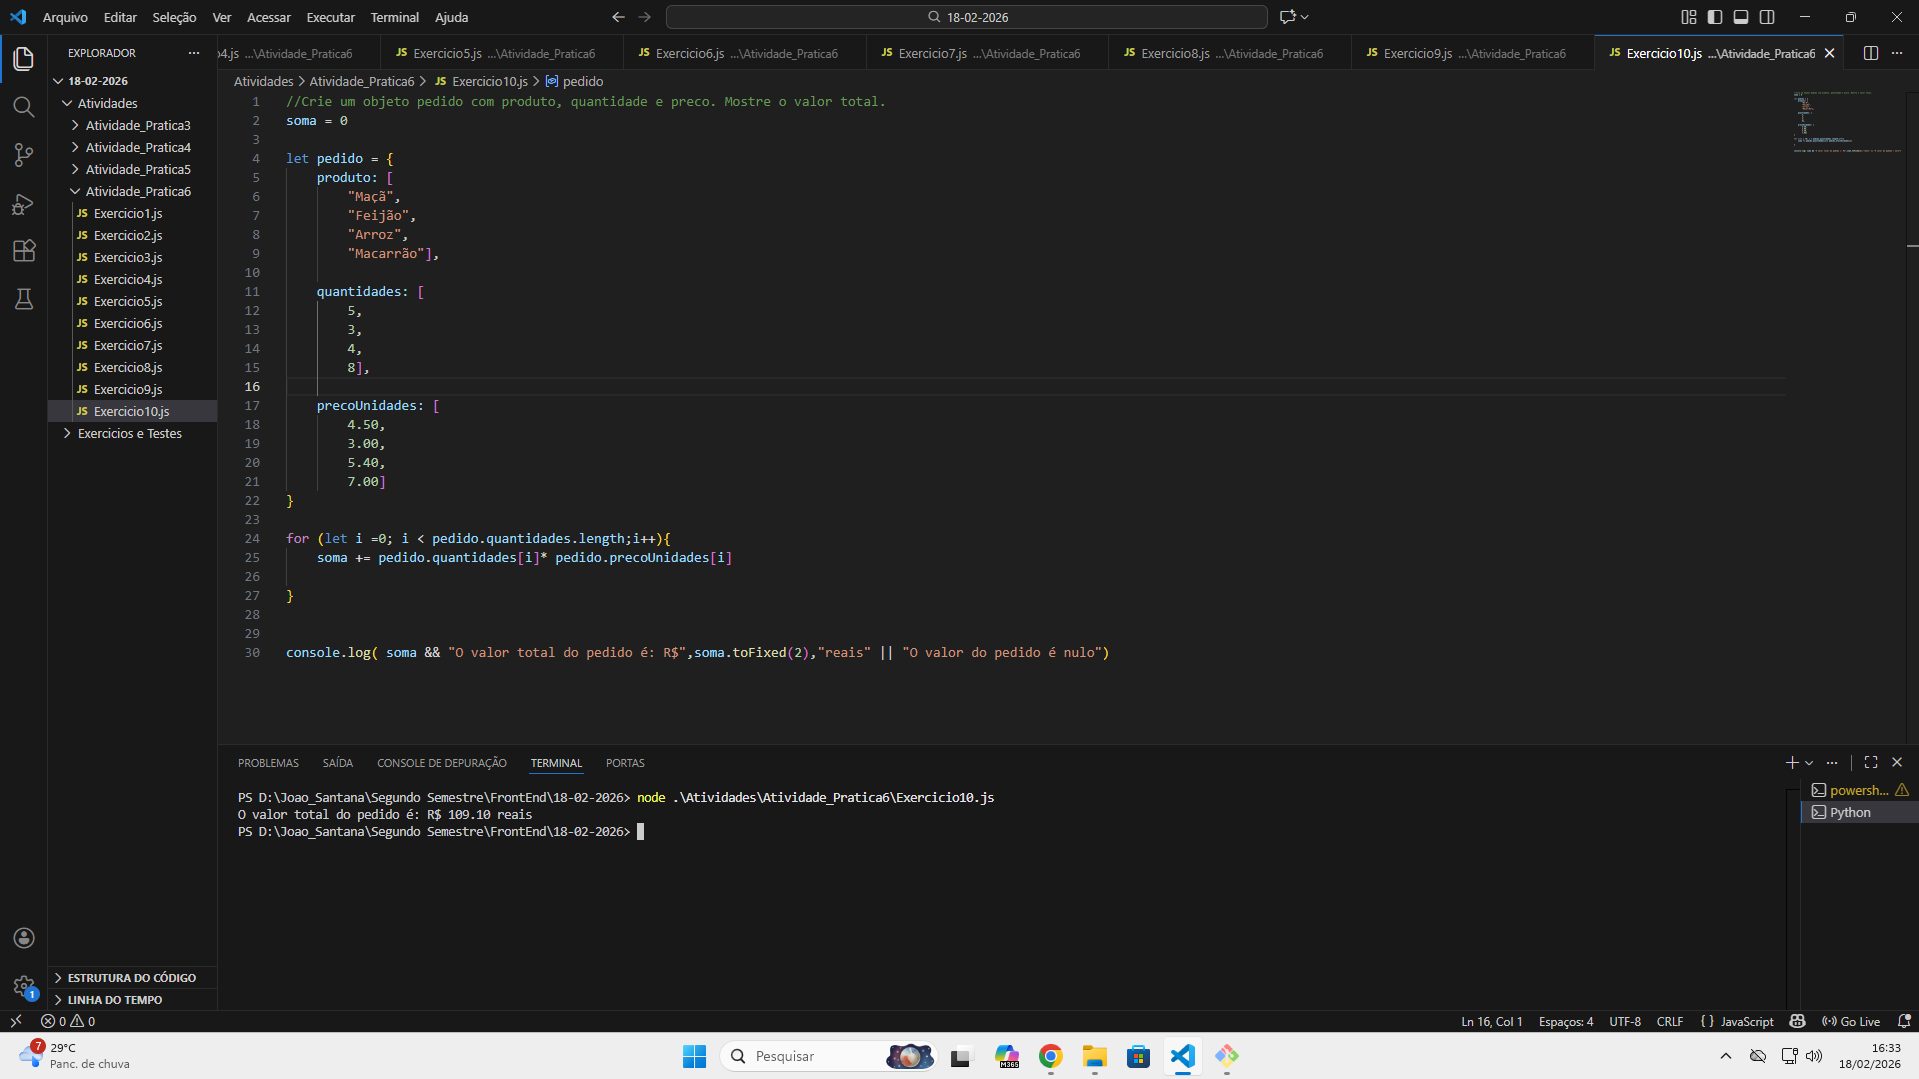
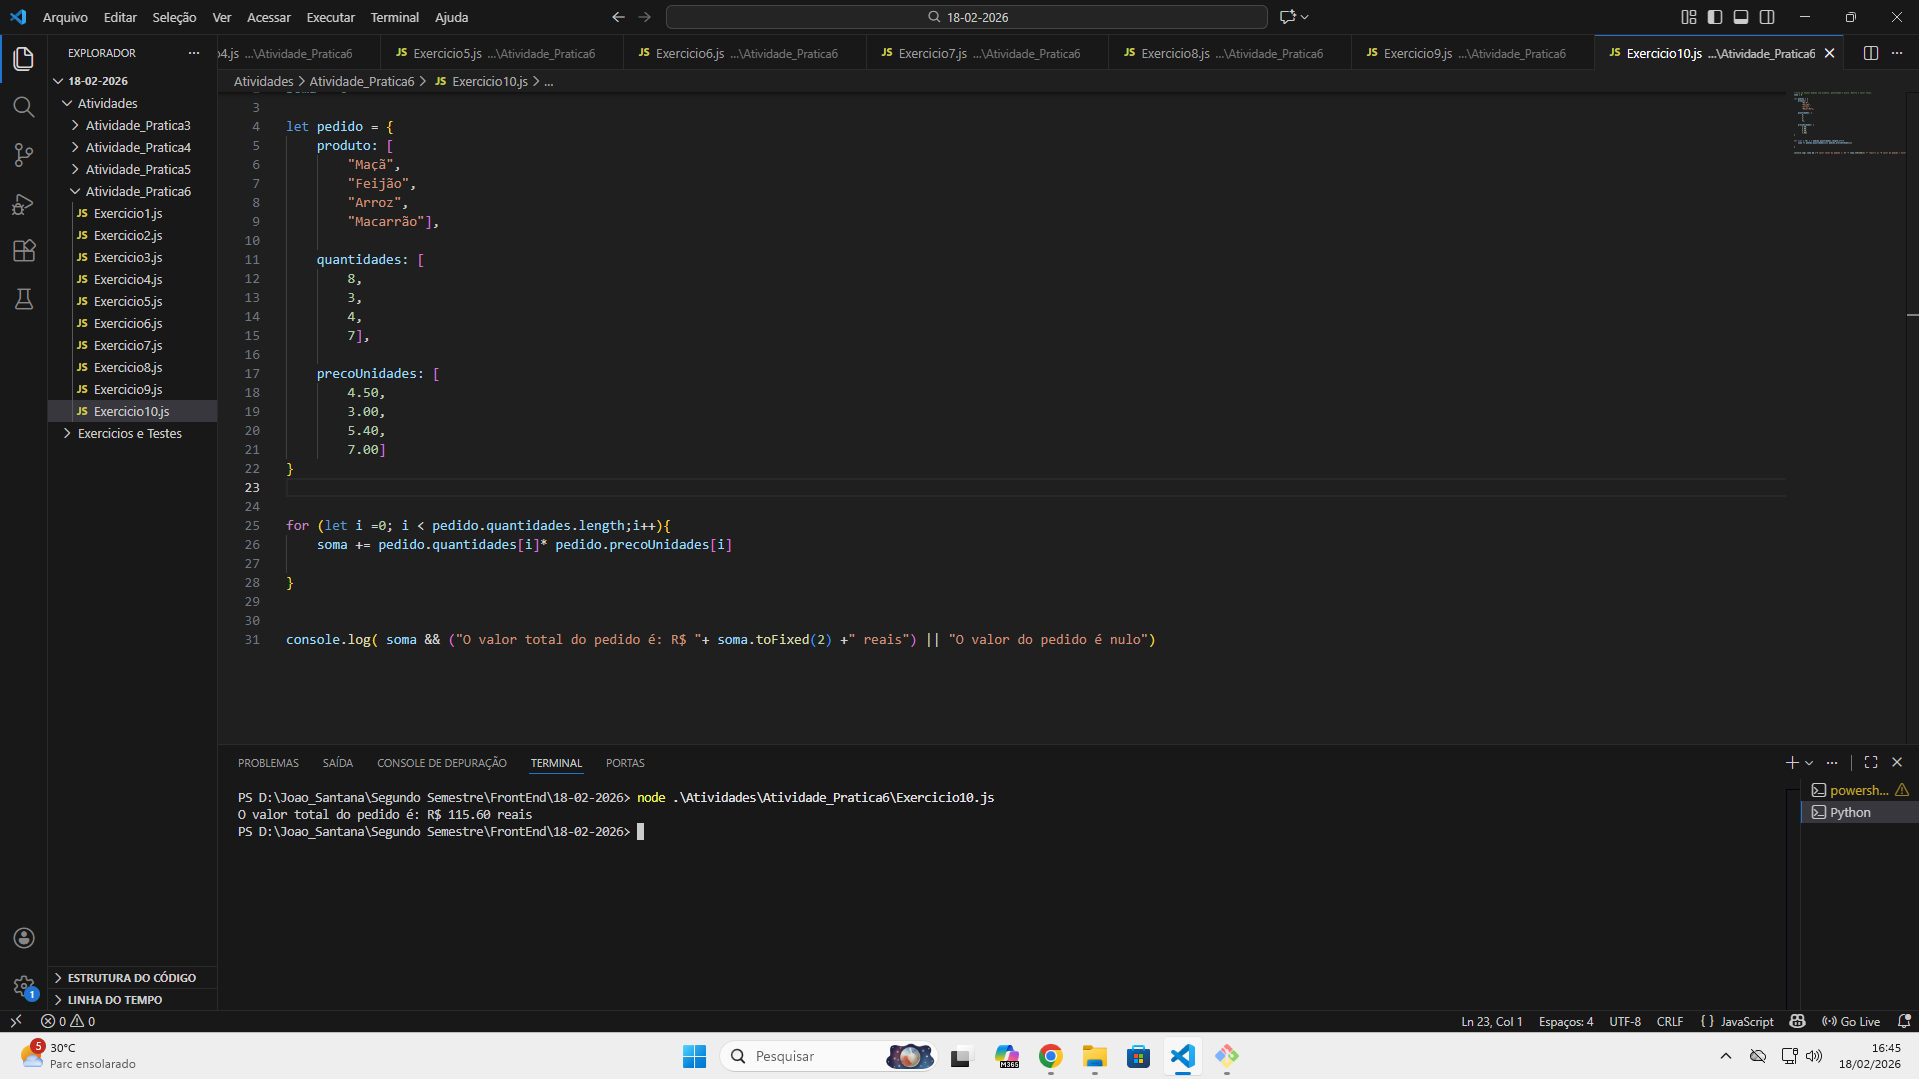
Alterações do exercício 10 da Atividade Prática 10

diff --git a/18-02-2026/Atividades/Atividade_Pratica6/Exercicio10.js b/18-02-2026/Atividades/Atividade_Pratica6/Exercicio10.js
@@ -9,10 +9,10 @@ let pedido = {
         "Macarrão"],
 
     quantidades: [
-        5,
+        8,
         3,
         4,
-        8],
+        7],
 
     precoUnidades: [
         4.50,
@@ -21,10 +21,11 @@ let pedido = {
         7.00]
 }
 
+
 for (let i =0; i < pedido.quantidades.length;i++){
     soma += pedido.quantidades[i]* pedido.precoUnidades[i]
 
 }
 
 
-console.log( soma && "O valor total do pedido é: R$",soma.toFixed(2),"reais" || "O valor do pedido é nulo")
+console.log( soma && ("O valor total do pedido é: R$ "+ soma.toFixed(2) +" reais") || "O valor do pedido é nulo")
